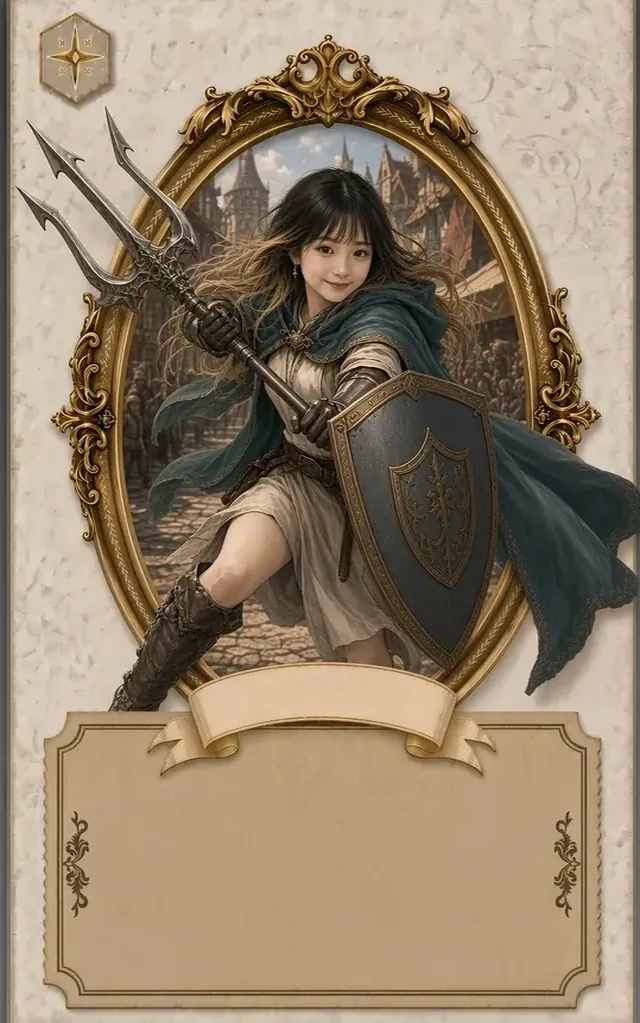
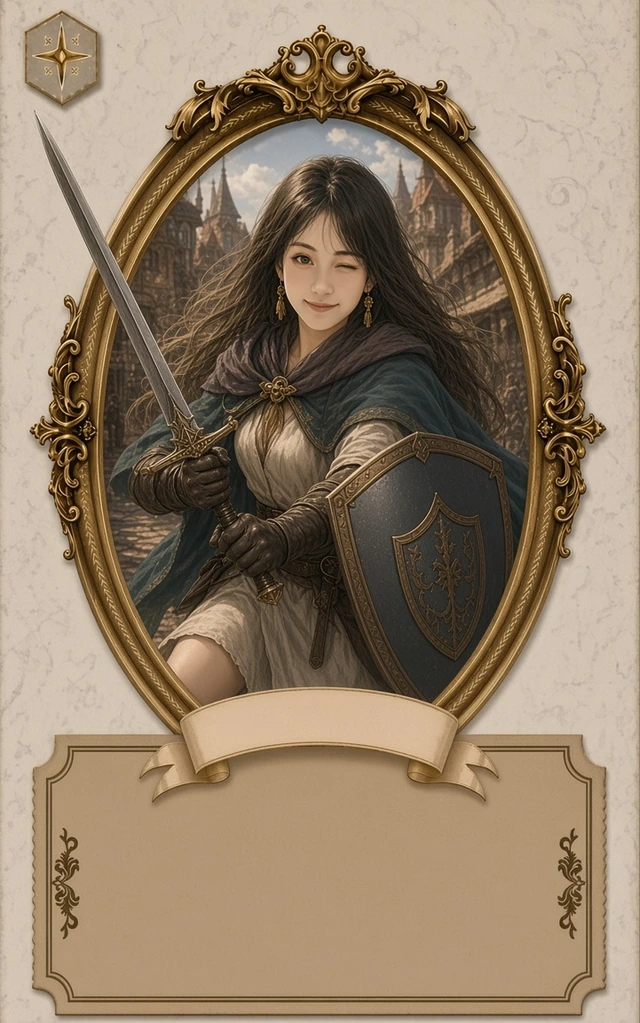
Update sales Riley portrait to the new wink reference and bust the card-image cache.
Keep the knight gold frame, sword, and kite shield so the card still matches the rest of the sales set.

diff --git a/frontend/src/utils/imageUrl.ts b/frontend/src/utils/imageUrl.ts
@@ -20,7 +20,7 @@ export function getImageUrl(path: string | null | undefined): string | null {
   const url = `${BACKEND_HTTP_BASE}${webpPath}`
   // 顾客立绘、卡面曾被长缓存；换 query 才能立刻拿到新图
   if (/\/images\/(customer|cards)\//i.test(webpPath)) {
-    return `${url}?v=20260909f`
+    return `${url}?v=20260909g`
   }
   return url
 }
